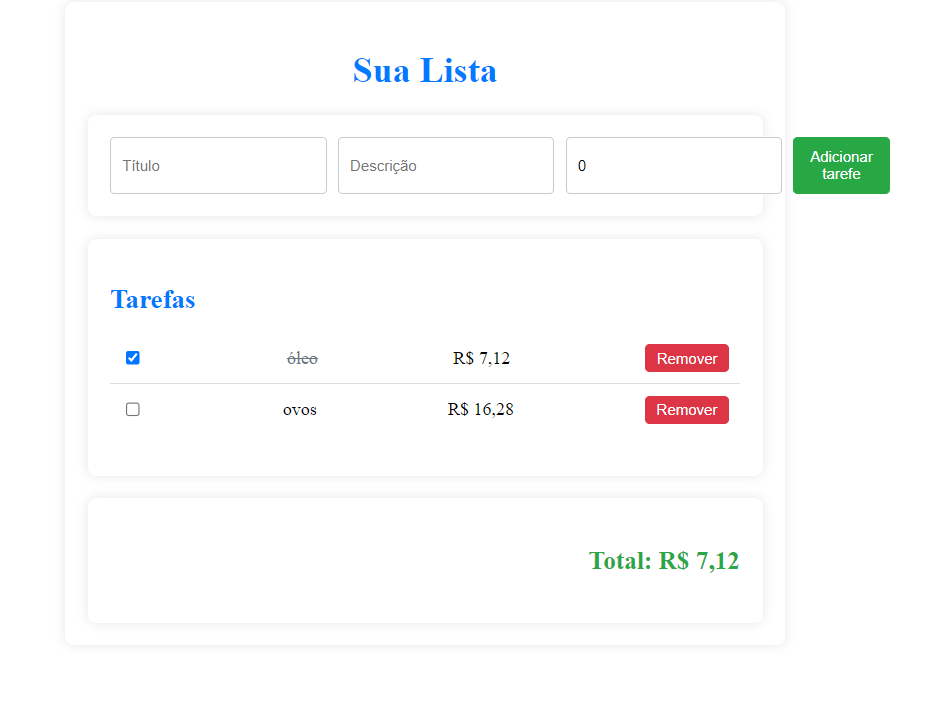
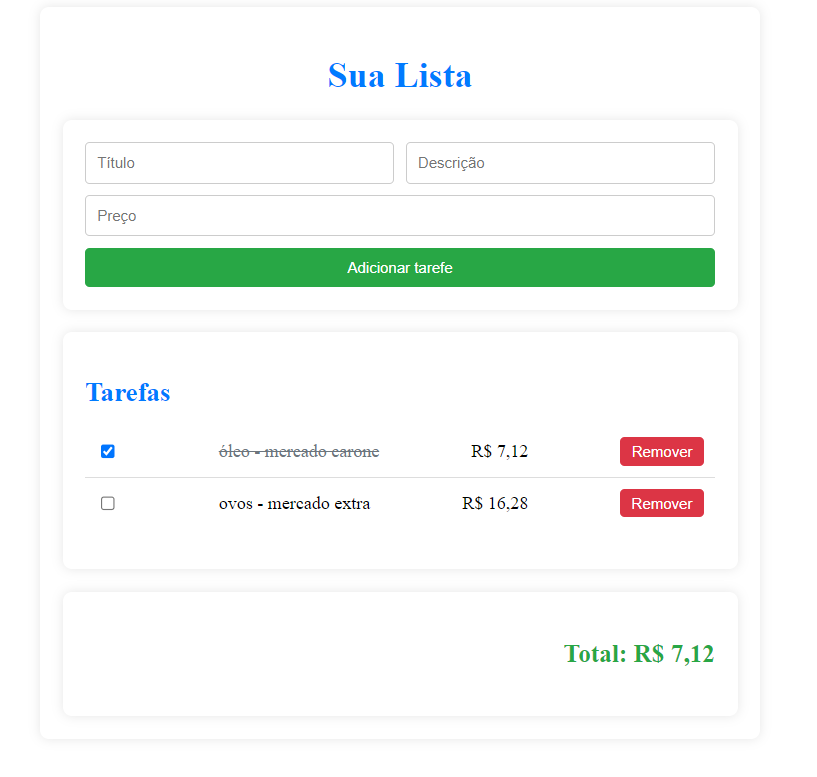
project

diff --git a/src/app/todo-list/todo-list.component.html b/src/app/todo-list/todo-list.component.html
@@ -12,7 +12,7 @@
         <ul>
             <li *ngFor='let todo of todos; let item = index'>
                 <input type="checkbox" [checked]="todo.completed" (change)="toggleCompletion(item)">
-                <span [class.completed]="todo.completed">{{todo.title}}</span>
+                <span [class.completed]="todo.completed">{{todo.title}} - {{todo.description}}</span>
                 <span *ngIf="todo.price">R$ {{todo.price.toFixed(2).replace('.',',')}}</span>
                 <button (click)="removeTodo(item)">Remover</button>
             </li>

diff --git a/src/app/todo-list/todo-list.component.css b/src/app/todo-list/todo-list.component.css
@@ -26,6 +26,7 @@ h1 {
 /* Estilo do formulário */
 .form {
     display: flex;
+    flex-wrap: wrap;
     gap: 10px;
     margin-bottom: 20px;
 }
@@ -45,6 +46,7 @@ h1 {
     padding: 10px 15px;
     cursor: pointer;
     transition: background-color 0.3s;
+    width: 100%;
 }
 
 .form button:hover {

diff --git a/README.md b/README.md
@@ -1,4 +1,5 @@
 # Lista de tarefas com descrição e soma de valores
 
+#### adicione e remova itens de sua lista; os itens ficam salvos no local storage, permitindo que ao voltar à página no mesmo dispositivo, sua lista apareça.
 
 ![alt text](image.png)
